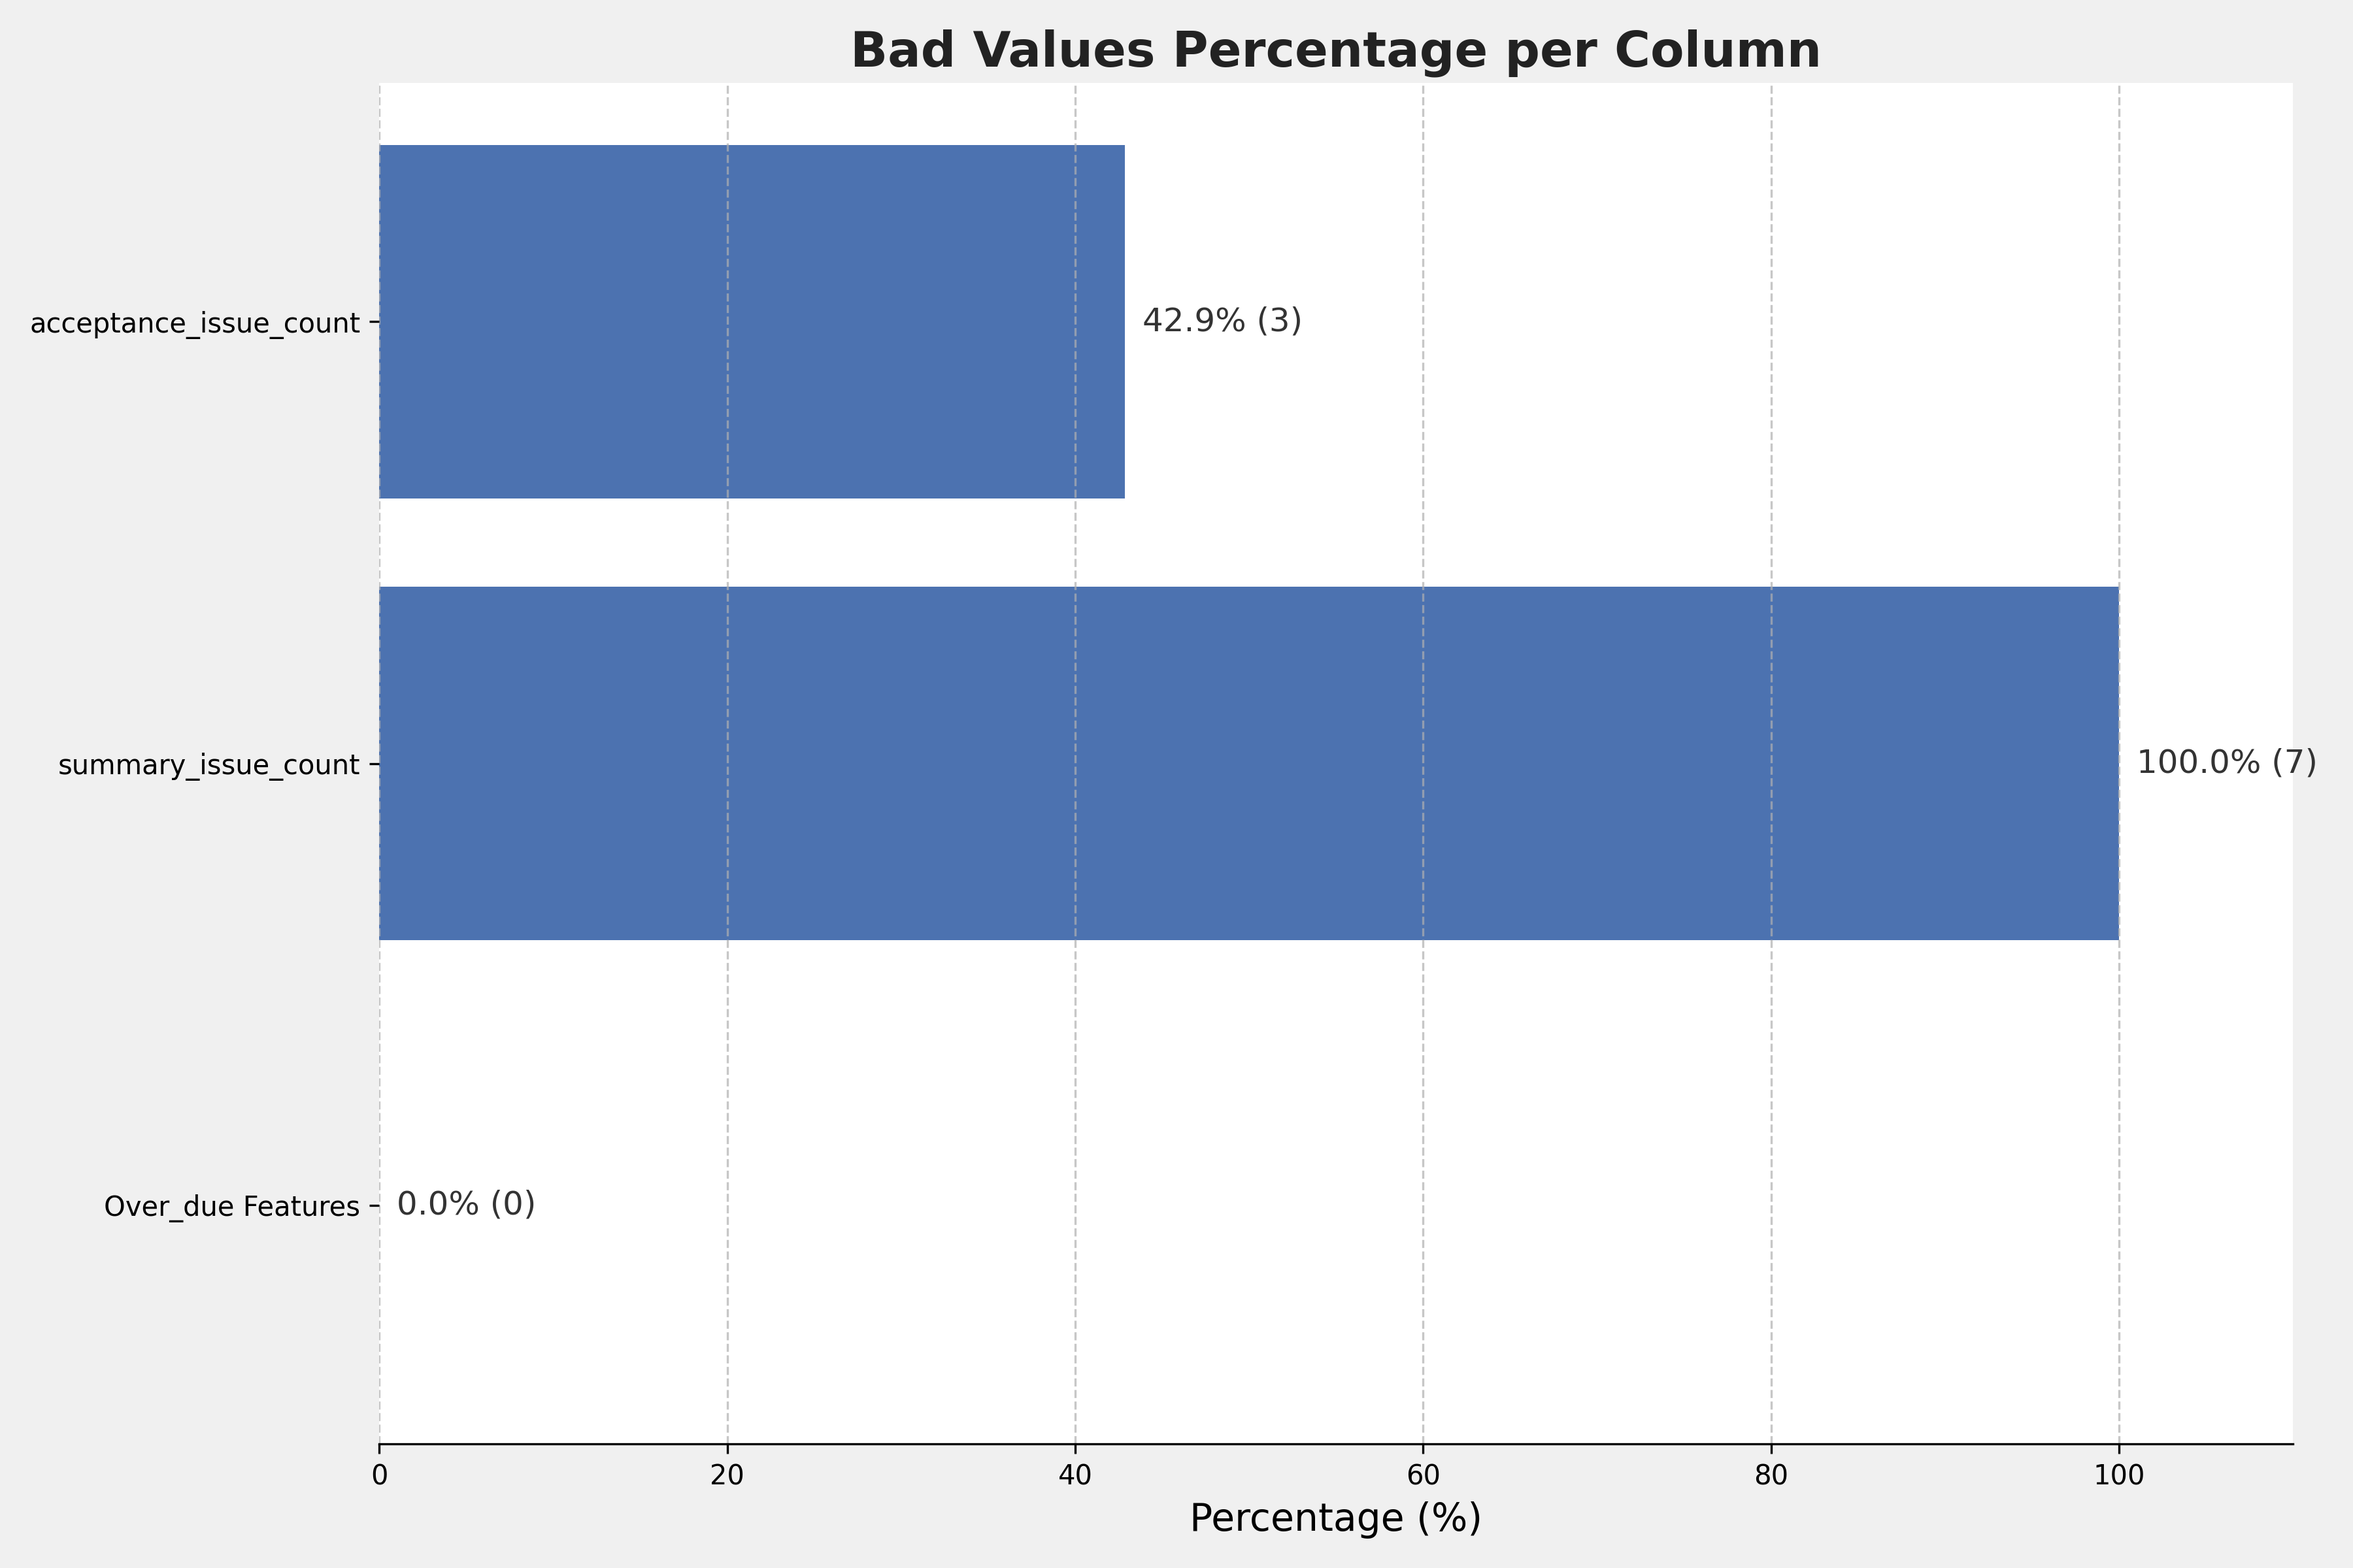
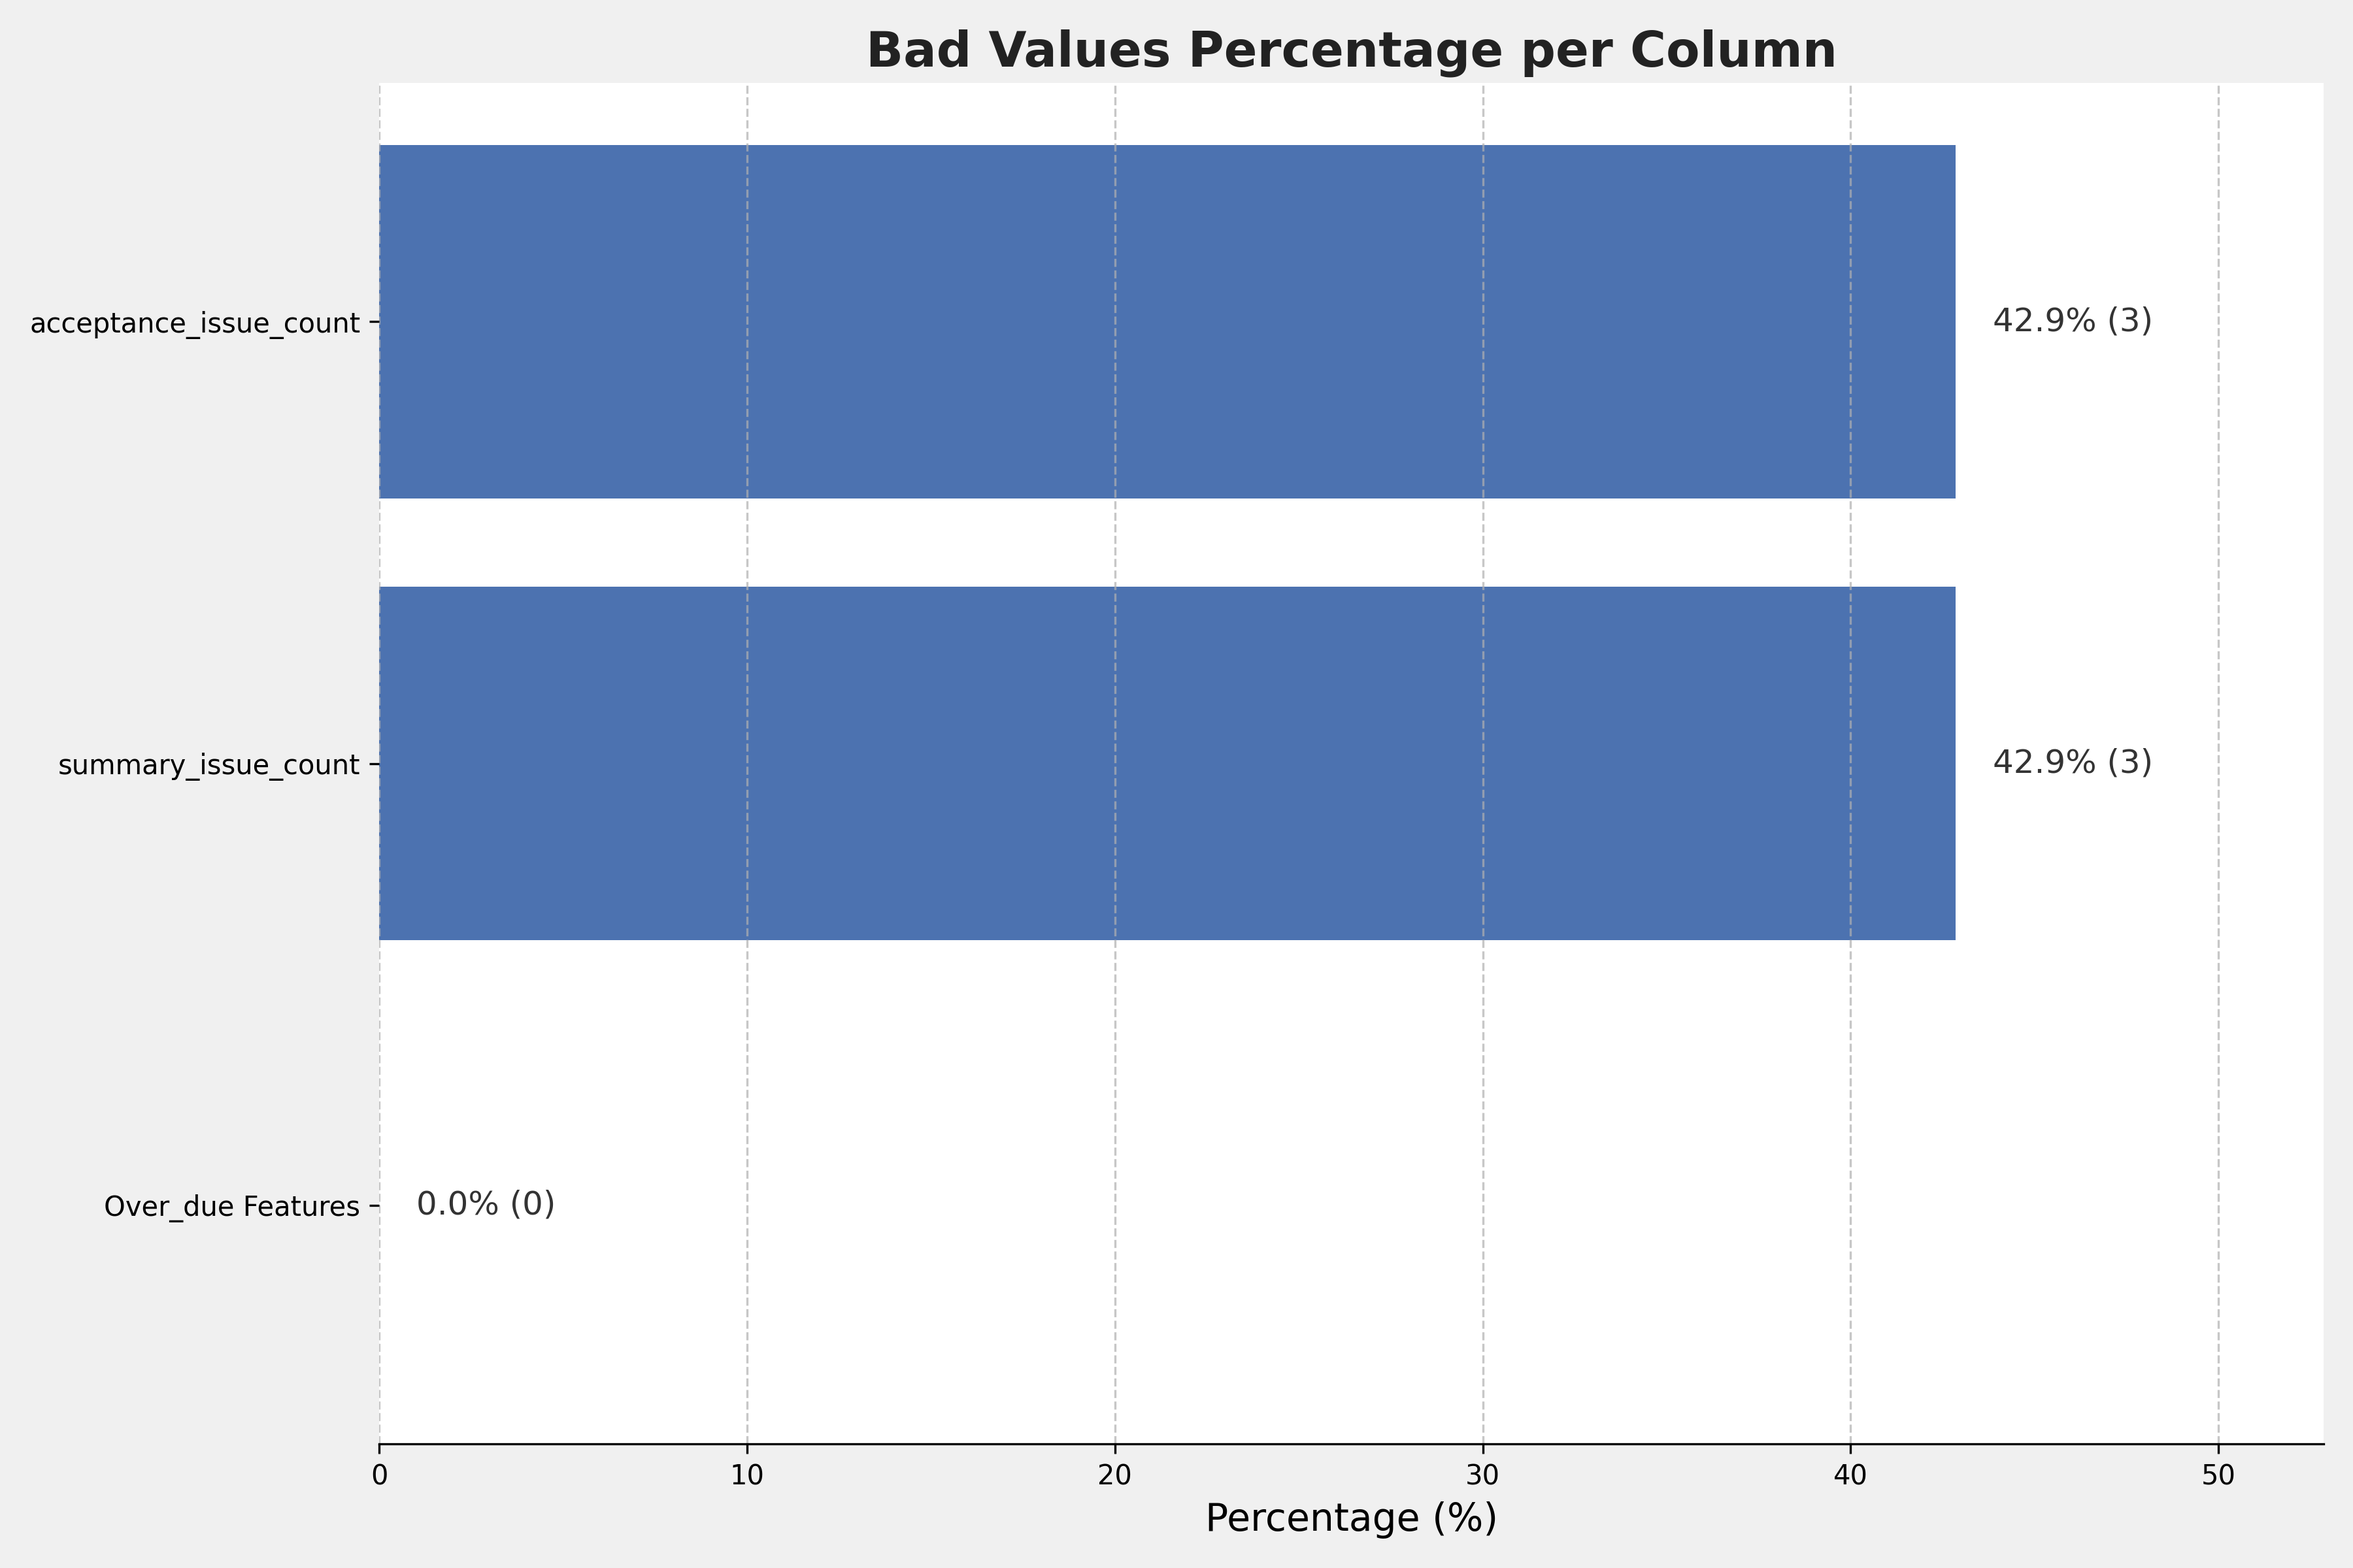
24/04/2025 11 pm push
Most of the backend part is done ...Will start building frontend at 11 am

diff --git a/utils.py b/utils.py
@@ -107,7 +107,7 @@ def json_to_csv() -> None:
     ]
 
     # Read JSON data
-    with open(json_file, 'r') as f:
+    with open(json_file, 'r',encoding='utf-8') as f:
         data = json.load(f)
     
     # Prepare CSV rows
@@ -164,7 +164,7 @@ def count_empty_values(csv_file: str) -> dict:
 import pandas as pd
 
 
-def filter_rows_with_missing() -> None:
+def filter_rows_with_missing_values_or_low_quality_data() -> None:
     """
     Reads a CSV file, filters rows with at least one missing value in any column,
     and saves those rows to a new CSV file.
@@ -173,21 +173,33 @@ def filter_rows_with_missing() -> None:
         csv_input: Path to the original CSV file
         csv_output: Path to save the filtered CSV file
     """
-    csv_input="data/API.csv"
+    csv_input="data/FInal_API.csv"
     csv_output="data/Not-Good-issues.csv"
     df = pd.read_csv(csv_input)
     
-    # Replace empty strings with NaN to treat them as missing
-    df.replace('', pd.NA, inplace=True)
+    # Condition for missing values in any column
+    missing_any = df.isna().any(axis=1)
     
-    # Filter rows where any column has missing value
-    filtered_df = df[df.isna().any(axis=1)]
+    # Condition for Acceptance_result is 'Not Well Documented'
+    acceptance_condition = df['Acceptance_result'].fillna('').str.strip() == 'Not Well Documented'
+    
+    # Condition for summary_result is 'Needs Improvement'
+    summary_condition = df['summary_result'].fillna('').str.strip() == 'Needs Improvement'
+
+    # need to add rows with overdue condition....
+    
+    # Combine conditions: missing_any OR acceptance_condition OR summary_condition
+    combined_condition = missing_any | acceptance_condition | summary_condition
+    
+    # Filter rows
+    filtered_df = df[combined_condition]
     
     # Save filtered rows to new CSV
     filtered_df.to_csv(csv_output, index=False)
 
 
-def save_rows_with_empty_column(column_name: str) -> None:
+# This function will be used when user asks abt some missing column
+def save_rows_with_empty_column_and_low_quality_data(column_name: str) -> None:
     """
     Save rows to a new CSV where the specified column is empty or null.
 
@@ -196,19 +208,35 @@ def save_rows_with_empty_column(column_name: str) -> None:
         column_name: Column name to check for empty/null values.
         csv_output: Path to save the filtered CSV file.
     """
-    csv_input="data/API.csv"
-    csv_output="data/missing.csv"
+    csv_input="data/Final_API.csv"
+    csv_output="data/user_specific_need.csv"
 
     df = pd.read_csv(csv_input)
-    
-    # Treat empty strings as NaN for the specified column
-    df[column_name].replace('', pd.NA, inplace=True)
-    
-    # Filter rows where the column is NaN (empty or null)
-    filtered_df = df[df[column_name].isna()]
-    
-    # Save filtered rows to the output CSV
-    filtered_df.to_csv(csv_output, index=False)
+
+    if(column_name=="Acceptance_result"):
+        acceptance_issue = df['Acceptance_result'].isna() | (df['Acceptance_result'] == 'Not Well Documented')
+        new_df=df[acceptance_issue]
+        new_df.to_csv(csv_output, index=False)
+
+    elif(column_name=="summary_result"):
+        summary_issue = df['summary_result'] == 'Needs Improvement'
+        new_df=df[summary_issue]
+        new_df.to_csv(csv_output, index=False)
+
+    elif(column_name=="Over Due Features"):
+        df2 = pd.read_csv("data/overdue.csv")
+        df2.to_csv(csv_output, index=False)
+    else:
+        # Treat empty strings as NaN for the specified column
+        df[column_name].replace('', pd.NA, inplace=True)
+        
+        # Filter rows where the column is NaN (empty or null)
+        filtered_df = df[df[column_name].isna()]
+        
+        # Save filtered rows to the output CSV
+        filtered_df.to_csv(csv_output, index=False)
+
+
 
 def save_overdue_tasks() -> int:
     """
@@ -221,7 +249,7 @@ def save_overdue_tasks() -> int:
     Returns:
         Number of overdue tasks found
     """
-    csv_input="data/API.csv"
+    csv_input="data/Final_API.csv"
     csv_output="data/overdue.csv"
     # Read the CSV file
     df = pd.read_csv(csv_input)

diff --git a/main.py b/main.py
@@ -3,47 +3,58 @@ from utils import *
 # import pandas as pd
 
 # user query entry point 
-# query=input("Greeting leader..Please specify the L2 board for which the feature readiness report is required.[APS,DIS,TES] : ")
+query_user=input("Please enter your query: ")
+
+def find_board_in_string(board_names, text):
+    """
+    Returns the first board name found in text, or None if none found.
+    """
+    for board in board_names:
+        if board in text:
+            return board
+    return None
+
+query=find_board_in_string(["APS", "DIS", "TES"],query_user)
 
 # GuardRail
-# if query not in ["APS", "DIS", "TES"]:
-#     print("Invalid input. Please enter the one of the following options: APS, DIS, TES")
+if query not in ["APS", "DIS", "TES"]:
+    print("Board Not found.")
+
+
 
 # # JIRA API query here ..rsult json file stored in data/result.json
-# get_board_features(query)
+get_board_features(query)
 
 # # convert the aquired json to csv here and stored in data/API.csv
-# json_to_csv()
+json_to_csv()
 
 # # now checking acceptance_crieteria and summary and suggesting better changes and ading those to csv file itself 
-# process_evaluations()
+process_evaluations()
 
-# Now we have to check parameters
+# #Now we have to check all missing parameters
 missing_value=count_empty_values("data/API.csv")
 
-# This creates a dashboard with any parameters we give == only concebtrating for missing values
+# # This creates a dashboard with any parameters we give == only concebtrating for missing values
 create_missing_values_dashboard(missing_value)
 
-# Now worrying abt the quality of data == OverDue features , not so good Acceptance crieteria , Not so good summaries
-# overdue Task number returned and csv saved in overdue.csv
+# # Now worrying abt the quality of data == OverDue features , not so good Acceptance crieteria , Not so good summaries
+# # overdue Task number returned and csv saved in overdue.csv
 no_of_over_due_features=save_overdue_tasks()
 
-# No of features with bad acceptance crieteria and summary
+# # No of features with bad acceptance crieteria and summary
 bad_value=count_separate_issues()
 bad_value["Over_due Features"]=no_of_over_due_features
 
 
-# This creates a dashboard with any parameters we give == concentrating on quality
+# # This creates a dashboard with any parameters we give == concentrating on quality
 create_Bad_values_dashboard(bad_value)
 
 
+# Filtering out all the Not-Good features both missing and bad quality of acceptance crieteria == Not-Good-issues
+filter_rows_with_missing_values_or_low_quality_data()
 
-
-# Filtering out all the Not-Good features
-# filter_rows_with_missing()
-
-# Filtering out features based on specific column name
-# save_rows_with_empty_column("Due_date")
+# # Filtering out features based on specific column name... can be invoked in runtime according to user input
+save_rows_with_empty_column_and_low_quality_data("Over Due Features")
 
 
 

diff --git a/crew.py b/crew.py
@@ -103,8 +103,8 @@ evaluator = Agent(
     
 # Create evaluation task
 evaluation_task = Task(
-    description="""
-    Evaluate this JIRA description and determine if it's well-written:
+   Description="""
+   Evaluate this JIRA description and determine if the summary is well-written:
     
     CURRENT SUMMARY: {summary}
     
@@ -112,19 +112,20 @@ evaluation_task = Task(
     
     Focus ONLY on:
     1. IS the summary well-written
-    2. Is it describing the description well and providing clear insights
+    2. Is it representing what the feature is supposed to do
+    3. Is it clear and concise
     
     Provide ONLY:
-    - "GOOD" or "NEEDS IMPROVEMENT" verdict on the description
+    - "GOOD" or "NEEDS IMPROVEMENT" verdict on the summary based on description
     - If needed, a suggested improved summary that better reflects the description
-    Summary is like heading ..it should be short and sweet
+    Summary is like heading ..it should be clear and concise and should represent what the feature is supposed to do.
     Even if it is decent classify it as GOOD but also give your suggested summary that captures the key benefits and functionality of the feature
     """,
     agent=evaluator,
     output_pydantic=Evaluated_summary,
     expected_output="""
-    classification:'Good' or 'Needs Improvement'
-    improved_version: improved summary based on crieteria
+    classification: 'Good' or 'Needs Improvement'
+    improved_version: improved summary based on criteria
     """
 )
 
